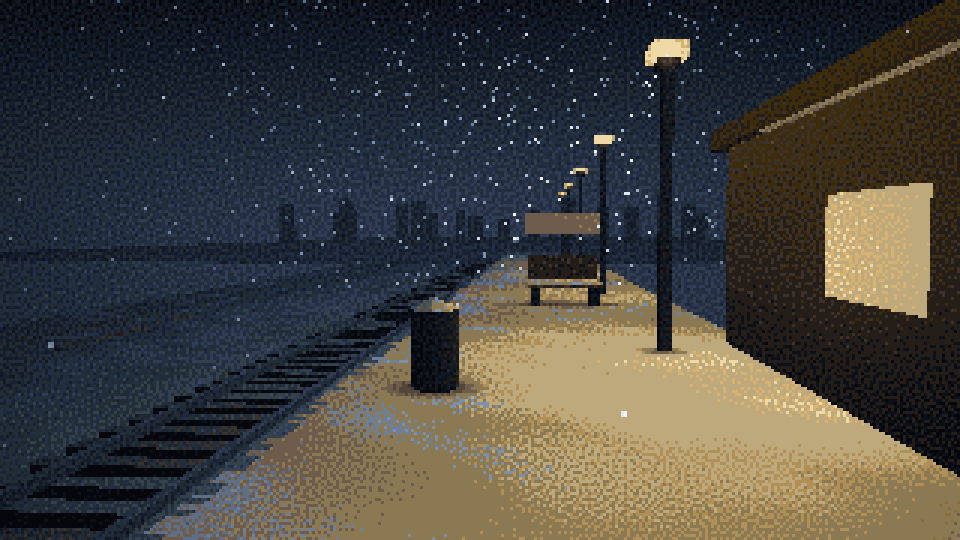
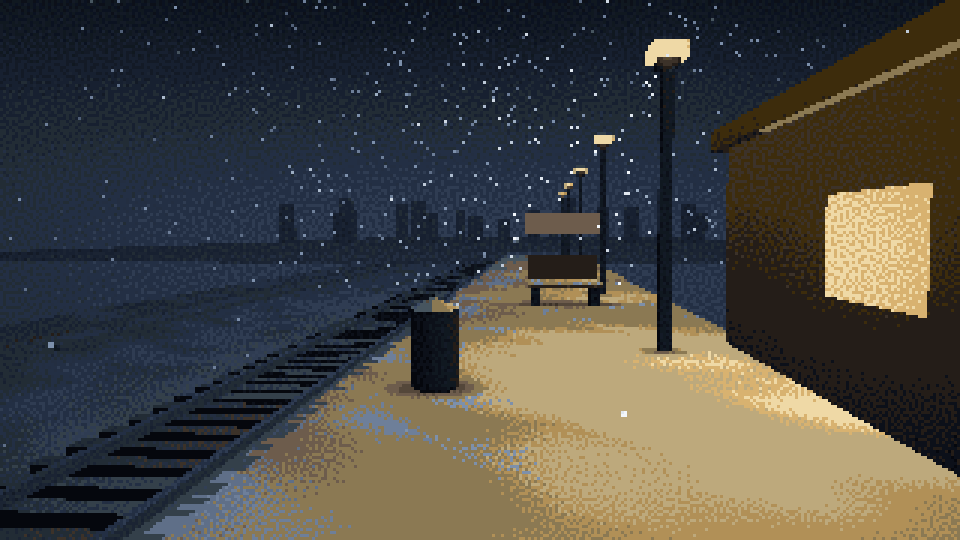
.

diff --git a/art/karli-istasyon.html b/art/karli-istasyon.html
@@ -730,7 +730,7 @@ excerpt: "An empty platform under falling snow, drawn pixel by pixel in the brow
     glow(TRACK_X, 1.15, -148, 0.5, 0.75 * head, 255, 250, 232, false);
   }
 
-  var PRINT = { vig: 0.34, grain: 0.30, grainOff: 2.4, dither: 1.45 };
+  var PRINT = { vig: 0.2, grain: 0.075, grainOff: 0.6, dither: 0.72 };
   var BLOOM = { threshold: 195, strength: 0.8, radius: 4, tint: [1, 0.92, 0.78] };
   var CAM = { pos: camPos, F: camF, R: camR, U: camU, tanH: tanH, aspect: aspect };
   /* Contact shadows on the snow: the bin, the bench, the sign and the foot of every lamp. */

diff --git a/art/gece-laboratuvari.html b/art/gece-laboratuvari.html
@@ -831,7 +831,7 @@ excerpt: "An empty engineering lab after midnight, drawn pixel by pixel in the b
     glow(0.295, BENCH + 0.039, -0.320, 0.035, 0.26 * blink, 240, 70, 60);
   }
 
-  var PRINT = { vig: 0.30, grain: 0.26, grainOff: 2.0, dither: 1.35 };
+  var PRINT = { vig: 0.18, grain: 0.065, grainOff: 0.5, dither: 0.68 };
   var BLOOM = { threshold: 120, strength: 0.9, radius: 3, tint: [1, 1, 1] };
   var CAM = { pos: camPos, F: camF, R: camR, U: camU, tanH: tanH, aspect: aspect };
   /* Contact shadows where the instruments sit on the bench top. */

diff --git a/art/sinav-salonu.html b/art/sinav-salonu.html
@@ -1059,7 +1059,7 @@ excerpt: "An empty lecture hall a minute before the exam, drawn pixel by pixel i
     }
   }
 
-  var PRINT = { vig: 0.30, grain: 0.26, grainOff: 2.2, dither: 1.4 };
+  var PRINT = { vig: 0.18, grain: 0.065, grainOff: 0.55, dither: 0.7 };
   var BLOOM = { threshold: 200, strength: 0.7, radius: 4, tint: [1, 0.93, 0.80] };
   var CAM = { pos: camPos, F: camF, R: camR, U: camU, tanH: tanH, aspect: aspect };
   /* Contact shadows: under every desk run, the teacher's desk, the lectern, and the lifted paper corner. */

diff --git a/art/akvaryum.html b/art/akvaryum.html
@@ -809,7 +809,7 @@ excerpt: "Inside a lit tank at two in the morning, drawn pixel by pixel in the b
     }
   }
 
-  var PRINT = { vig: 0.36, grain: 0.28, grainOff: 2.2, dither: 1.42 };
+  var PRINT = { vig: 0.22, grain: 0.07, grainOff: 0.55, dither: 0.71 };
   var BLOOM = { threshold: 190, strength: 0.55, radius: 3, tint: [0.9, 1, 0.95] };
   var CAM = { pos: camPos, F: camF, R: camR, U: camU, tanH: tanH, aspect: aspect };
   /* Contact shadows on the sand: rocks, driftwood, plant roots, and every fish overhead. */

diff --git a/art/bos-durak.html b/art/bos-durak.html
@@ -971,7 +971,7 @@ excerpt: "A bus shelter on a rainy night at the edge of a small town, drawn pixe
     }
   }
 
-  var PRINT = { vig: 0.36, grain: 0.30, grainOff: 2.4, dither: 1.45 };
+  var PRINT = { vig: 0.22, grain: 0.075, grainOff: 0.6, dither: 0.72 };
   var BLOOM = { threshold: 185, strength: 0.9, radius: 4, tint: [0.95, 0.95, 1.0] };
   var CAM = { pos: camPos, F: camF, R: camR, U: camU, tanH: tanH, aspect: aspect };
   /* Contact shadows on the pavement: bench, bin, sign, lamp foot and shelter posts. */

diff --git a/art/gece-treni.html b/art/gece-treni.html
@@ -1110,7 +1110,7 @@ excerpt: "An empty sleeper compartment on a night train, drawn pixel by pixel in
     glow(glassX - 0.012, TABLE_Y + 0.123, glassZ + 0.01, 0.018, hi * 4, 255, 230, 190, true);
   }
 
-  var PRINT = { vig: 0.42, grain: 0.26, grainOff: 2.2, dither: 1.35 };
+  var PRINT = { vig: 0.25, grain: 0.065, grainOff: 0.55, dither: 0.68 };
   var BLOOM = { threshold: 190, strength: 0.85, radius: 4, tint: [1, 0.86, 0.70] };
 
   var glassPts = new Float64Array(12), glassCols = new Float64Array(12);

diff --git a/art/sessiz-iskele.html b/art/sessiz-iskele.html
@@ -783,7 +783,7 @@ excerpt: "A foggy morning on a Black Sea pier, drawn pixel by pixel in the brows
     }
   }
 
-  var PRINT = { vig: 0.30, grain: 0.30, grainOff: 2.4, dither: 1.45 };
+  var PRINT = { vig: 0.18, grain: 0.075, grainOff: 0.6, dither: 0.72 };
   var BLOOM = null;
   var CAM = { pos: camPos, F: camF, R: camR, U: camU, tanH: tanH, aspect: aspect };
   /* Contact shadows on the planks under the crate, the box, the bollard and the rope coil. */

diff --git a/art/cay-bahcesi.html b/art/cay-bahcesi.html
@@ -948,7 +948,7 @@ excerpt: "An empty tea garden on a hill above the Black Sea on a rainy afternoon
     }
   }
 
-  var PRINT = { vig: 0.30, grain: 0.26, grainOff: 2.2, dither: 1.35 };
+  var PRINT = { vig: 0.18, grain: 0.065, grainOff: 0.55, dither: 0.68 };
   var BLOOM = null;
   var CAM = { pos: camPos, F: camF, R: camR, U: camU, tanH: tanH, aspect: aspect };
   /* Soft contact shadows only: under an overcast sky nothing casts a hard one. */

diff --git a/art/firtinada-fener.html b/art/firtinada-fener.html
@@ -833,7 +833,7 @@ excerpt: "A lighthouse on a rock through a Black Sea storm, drawn pixel by pixel
     }
   }
 
-  var PRINT = { vig: 0.42, grain: 0.34, grainOff: 2.7, dither: 1.5 };
+  var PRINT = { vig: 0.25, grain: 0.085, grainOff: 0.68, dither: 0.75 };
   var BLOOM = { threshold: 205, strength: 0.35, radius: 3, tint: [1, 0.97, 0.92] };
   var CAM = { pos: camPos, F: camF, R: camR, U: camU, tanH: tanH, aspect: aspect };
 

diff --git a/art/kis-limani.html b/art/kis-limani.html
@@ -1140,7 +1140,7 @@ excerpt: "A small Black Sea fishing harbour at winter dusk, drawn pixel by pixel
     }
   }
 
-  var PRINT = { vig: 0.34, grain: 0.28, grainOff: 2.2, dither: 1.4 };
+  var PRINT = { vig: 0.2, grain: 0.07, grainOff: 0.55, dither: 0.7 };
   var BLOOM = { threshold: 172, strength: 0.9, radius: 4, tint: [1, 0.98, 0.94] };
 
   function quayShadows() {

diff --git a/art/yayla-evi.html b/art/yayla-evi.html
@@ -953,7 +953,7 @@ excerpt: "A wooden house on a Black Sea highland at dusk, drawn pixel by pixel i
     }
   }
 
-  var PRINT = { vig: 0.32, grain: 0.14, grainOff: 1.2, dither: 1.05 };
+  var PRINT = { vig: 0.19, grain: 0.035, grainOff: 0.3, dither: 0.53 };
   var BLOOM = { threshold: 172, strength: 1.2, radius: 4, tint: [1, 0.84, 0.6] };
 
   function print(fr) {

diff --git a/art/findik-bahcesi.html b/art/findik-bahcesi.html
@@ -1014,7 +1014,7 @@ excerpt: "A hazelnut orchard on a steep hillside above Giresun, drawn pixel by p
     }
   }
 
-  var PRINT = { vig: 0.24, grain: 0.24, grainOff: 2.0, dither: 1.5 };
+  var PRINT = { vig: 0.14, grain: 0.06, grainOff: 0.5, dither: 0.75 };
   var BLOOM = null;
   var CAM = { pos: camPos, F: camF, R: camR, U: camU, tanH: tanH, aspect: aspect };
 
